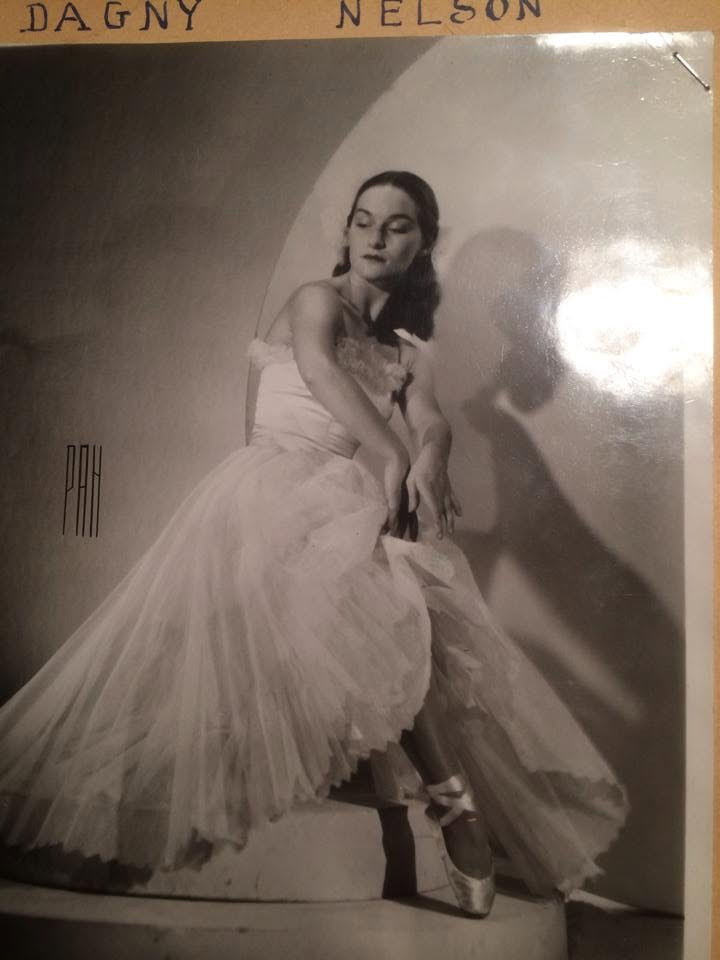
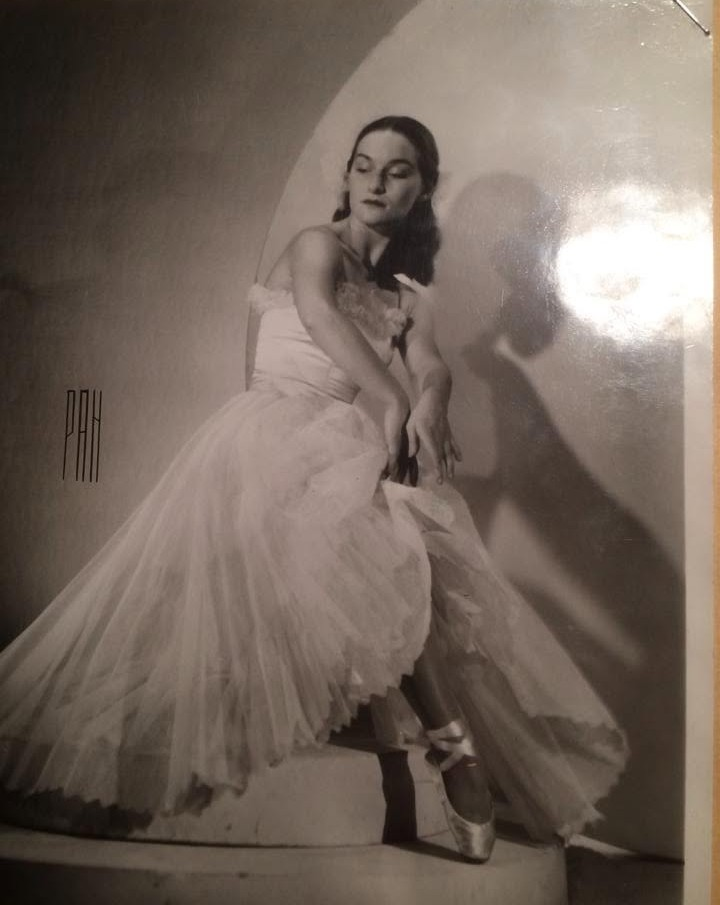
Om Lena: beskur ramar pa Lena-portratt + Dagny (text bort) + cache-bust bilder

diff --git a/om.html b/om.html
@@ -47,9 +47,9 @@
 <section class="section bg-cream">
   <div class="container split">
     <div class="split__media">
-      <img class="media-img tall" src="assets/lena-portratt.jpg" alt="Lena Lilja i frack och hög hatt med sin dressyrhäst">
+      <img class="media-img tall" src="assets/lena-portratt.jpg?v=2" alt="Lena Lilja i frack och hög hatt med sin dressyrhäst">
       <figure class="mini-fig">
-        <img src="assets/dagny.jpg" alt="Dagny Nelson, Lenas mamma och balettdansös">
+        <img src="assets/dagny.jpg?v=2" alt="Dagny Nelson, Lenas mamma och balettdansös">
         <figcaption>Lenas mamma Dagny Nelson – premiärdansös och första danspedagogen på Södra Latin. Härifrån kommer namnet Hästbaletten.</figcaption>
       </figure>
     </div>
@@ -94,7 +94,7 @@
     </div>
     <div class="famgrid">
       <figure>
-        <img src="assets/eleonor.jpg" alt="Eleonor Lilja på Junior-EM 1999 med hästen Alabama">
+        <img src="assets/eleonor.jpg?v=2" alt="Eleonor Lilja på Junior-EM 1999 med hästen Alabama">
         <figcaption><span class="fam-name">Eleonor &amp; Alabama</span><span class="fam-meta">Junior-EM 1999, Österrike</span></figcaption>
       </figure>
       <figure>
